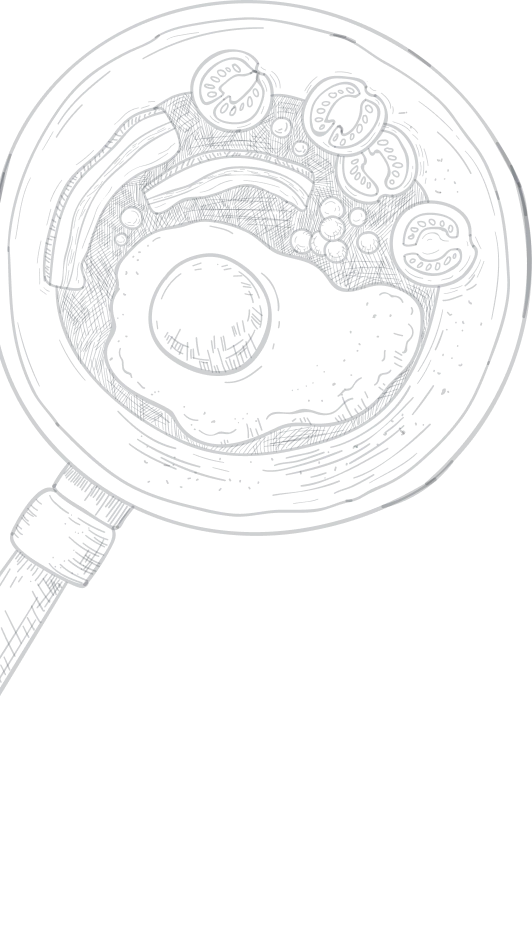
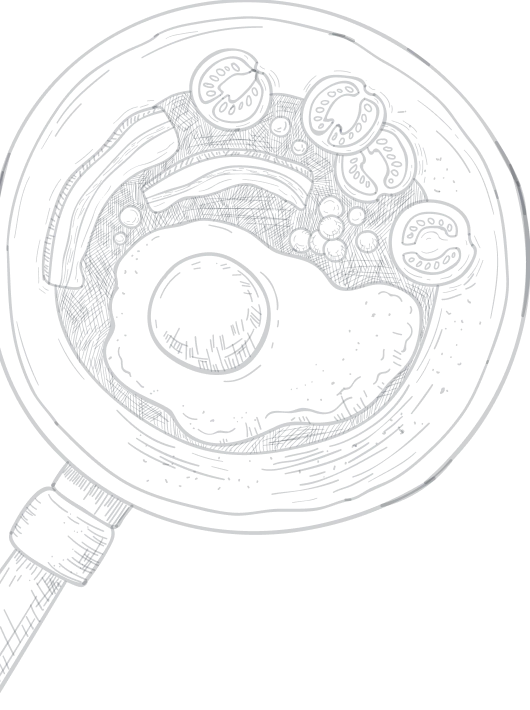
reviews

Changed region(s): [[0.0, 0.0, 1.0, 0.9915]]

diff --git a/index.html b/index.html
@@ -16,6 +16,17 @@
       crossorigin="anonymous"
       referrerpolicy="no-referrer"
     >
+    <link
+      rel="stylesheet"
+      href="https://cdnjs.cloudflare.com/ajax/libs/font-awesome/5.15.4/css/all.min.css"
+      integrity="sha512-1ycn6IcaQQ40/MKBW2W4Rhis/DbILU74C1vSrLJxCq57o941Ym01SwNsOMqvEBFlcgUa6xLiPY/NS5R+E6ztJQ=="
+      crossorigin="anonymous"
+      referrerpolicy="no-referrer"
+    >
+    <link
+      rel="stylesheet"
+      href="https://cdn.jsdelivr.net/npm/swiper@11/swiper-bundle.min.css"
+    >
     <link rel="stylesheet" href="./css/main.css">
     <title>Restaurant</title>
   </head>
@@ -495,13 +506,179 @@
         >
       </section>
       <!-- #endregion -->
+      <!-- #region Reviews-->
+      <section id="reviews" class="reviews">
+        <div class="container">
+          <h2 class="reviews__title">Our Happy Customers</h2>
+          <p class="reviews__description">
+            Lorem ipsum dolor sit amet, consectetur adipiscing elit, sed do
+            eiusmod tempor incididunt
+          </p>
+          <div class="reviews__slider swiper">
+            <ul class="reviews__list swiper-wrapper">
+              <li class="reviews__item swiper-slide">
+                <img
+                  width="109"
+                  height="109"
+                  src="./images/person-1.webp"
+                  alt="Ama Ampomah"
+                  class="reviews__user-photo"
+                >
+                <div class="reviews__rating">
+                  <span class="visually-hidden">Rating 5 out of 5</span>
+                  <i class="fas fa-star"></i>
+                  <i class="fas fa-star"></i>
+                  <i class="fas fa-star"></i>
+                  <i class="fas fa-star"></i>
+                  <i class="fas fa-star"></i>
+                </div>
+                <p class="reviews__review-text">
+                  Lorem ipsum dolor sit amet consectetur. Tortor massa nisl quam
+                  sit. Vitae congue ultrices neque penatibus mi in quisque. Leo
+                  in cursus enim magnis ante. Proin iaculis platea ipsum
+                  sagittis ac eu aliquam quis. Ornare tincidunt tempus semper
+                </p>
+                <h3 class="reviews__user-name">Ama Ampomah</h3>
+                <p class="reviews__position">CEO & Founder Inc</p>
+              </li>
+              <li class="reviews__item swiper-slide">
+                <img
+                  width="109"
+                  height="109"
+                  src="./images/person-2.webp"
+                  alt="Kweku Annan"
+                  class="reviews__user-photo"
+                >
+                <div class="reviews__rating">
+                  <span class="visually-hidden">Rating 5 out of 5</span>
+                  <i class="fas fa-star"></i>
+                  <i class="fas fa-star"></i>
+                  <i class="fas fa-star"></i>
+                  <i class="fas fa-star"></i>
+                  <i class="fas fa-star"></i>
+                </div>
+                <p class="reviews__review-text">
+                  Lorem ipsum dolor sit amet consectetur. Tortor massa nisl quam
+                  sit. Vitae congue ultrices neque penatibus mi in quisque. Leo
+                  in cursus enim magnis ante. Proin iaculis platea ipsum
+                  sagittis ac eu aliquam quis. Ornare tincidunt tempus semper
+                </p>
+                <h3 class="reviews__user-name">Kweku Annan</h3>
+                <p class="reviews__position">CEO & Founder Inc</p>
+              </li>
+              <li class="reviews__item swiper-slide">
+                <img
+                  width="109"
+                  height="109"
+                  src="./images/person-1.webp"
+                  alt="Ama Ampomah"
+                  class="reviews__user-photo"
+                >
+                <div class="reviews__rating">
+                  <span class="visually-hidden">Rating 5 out of 5</span>
+                  <i class="fas fa-star"></i>
+                  <i class="fas fa-star"></i>
+                  <i class="fas fa-star"></i>
+                  <i class="fas fa-star"></i>
+                  <i class="fas fa-star"></i>
+                </div>
+                <p class="reviews__review-text">
+                  Lorem ipsum dolor sit amet consectetur. Tortor massa nisl quam
+                  sit. Vitae congue ultrices neque penatibus mi in quisque. Leo
+                  in cursus enim magnis ante. Proin iaculis platea ipsum
+                  sagittis ac eu aliquam quis. Ornare tincidunt tempus semper
+                </p>
+                <h3 class="reviews__user-name">Ama Ampomah</h3>
+                <p class="reviews__position">CEO & Founder Inc</p>
+              </li>
+              <li class="reviews__item swiper-slide">
+                <img
+                  width="109"
+                  height="109"
+                  src="./images/person-2.webp"
+                  alt="Kweku Annan"
+                  class="reviews__user-photo"
+                >
+                <div class="reviews__rating">
+                  <span class="visually-hidden">Rating 5 out of 5</span>
+                  <i class="fas fa-star"></i>
+                  <i class="fas fa-star"></i>
+                  <i class="fas fa-star"></i>
+                  <i class="fas fa-star"></i>
+                  <i class="fas fa-star"></i>
+                </div>
+                <p class="reviews__review-text">
+                  Lorem ipsum dolor sit amet consectetur. Tortor massa nisl quam
+                  sit. Vitae congue ultrices neque penatibus mi in quisque. Leo
+                  in cursus enim magnis ante. Proin iaculis platea ipsum
+                  sagittis ac eu aliquam quis. Ornare tincidunt tempus semper
+                </p>
+                <h3 class="reviews__user-name">Kweku Annan</h3>
+                <p class="reviews__position">CEO & Founder Inc</p>
+              </li>
+              <li class="reviews__item swiper-slide">
+                <img
+                  width="109"
+                  height="109"
+                  src="./images/person-2.webp"
+                  alt="Kweku Annan"
+                  class="reviews__user-photo"
+                >
+                <div class="reviews__rating">
+                  <span class="visually-hidden">Rating 5 out of 5</span>
+                  <i class="fas fa-star"></i>
+                  <i class="fas fa-star"></i>
+                  <i class="fas fa-star"></i>
+                  <i class="fas fa-star"></i>
+                  <i class="fas fa-star"></i>
+                </div>
+                <p class="reviews__review-text">
+                  Lorem ipsum dolor sit amet consectetur. Tortor massa nisl quam
+                  sit. Vitae congue ultrices neque penatibus mi in quisque. Leo
+                  in cursus enim magnis ante. Proin iaculis platea ipsum
+                  sagittis ac eu aliquam quis. Ornare tincidunt tempus semper
+                </p>
+                <h3 class="reviews__user-name">Kweku Annan</h3>
+                <p class="reviews__position">CEO & Founder Inc</p>
+              </li>
+            </ul>
+          </div>
+          <div class="reviews__list-dots swiper-pagination"></div>
+          <img
+            class="reviews__decor"
+            src="./images/pan.webp"
+            alt="branch"
+            width="530"
+            height="710"
+            aria-hidden="true"
+          >
+        </div>
+      </section>
+      <!-- #endregion -->
     </main>
     <!-- #endregion -->
 
     <!-- #region Footer-->
+
     <footer class="footer">
       <div class="container"></div>
     </footer>
     <!-- #endregion -->
+
+    <script src="https://cdn.jsdelivr.net/npm/swiper@11/swiper-bundle.min.js"></script>
+
+    <script>
+      const swiper = new Swiper('.reviews__slider', {
+        slidesPerView: 1,
+        spaceBetween: 30,
+        loop: true,
+        centeredSlides: true,
+
+        pagination: {
+          el: '.reviews__list-dots',
+          clickable: true,
+        },
+      });
+    </script>
   </body>
 </html>

diff --git a/css/reviews.css b/css/reviews.css
@@ -1,0 +1,99 @@
+.reviews {
+  max-width: 1512px;
+  margin: 0 auto;
+  position: relative;
+  overflow: hidden;
+  background-color: #f3f4f4;
+}
+
+.reviews .container {
+  padding-block: 114px;
+  flex-direction: column;
+  position: relative;
+}
+
+.reviews__title {
+  font-family: var(--second-family);
+  font-weight: 700;
+  font-size: 60px;
+  line-height: 1.08;
+  color: #101a24;
+}
+
+.reviews__description {
+  color: #5c6574;
+  margin-top: 18px;
+  max-width: 376px;
+  text-align: center;
+}
+
+.reviews__slider {
+  max-width: 639px;
+}
+
+.reviews__list {
+  margin-top: 123px;
+}
+
+.reviews__item {
+  display: flex;
+  flex-direction: column;
+  padding: 60px 130px 40px 130px;
+  border-radius: 95px 45px;
+  background-color: #fff;
+  max-width: 100%;
+  position: relative;
+}
+
+.reviews__user-photo {
+  position: absolute;
+  left: calc(100% / 2);
+  top: -54px;
+  transform: translateX(-50%);
+  border-radius: 100%;
+}
+
+.reviews__rating {
+  display: flex;
+  justify-content: center;
+  align-items: center;
+  gap: 12px;
+  font-weight: 900;
+  font-size: 16px;
+  line-height: 4.0625;
+  color: #fb0;
+}
+
+.reviews__review-text {
+  color: #5c6574;
+  text-align: center;
+  margin-top: 38px;
+}
+
+.reviews__user-name {
+  font-size: 16px;
+  text-align: center;
+  color: #101a24;
+  margin-top: 26px;
+}
+
+.reviews__position {
+  font-size: 15px;
+  line-height: 1.93;
+  text-align: center;
+  color: #5c6574;
+}
+
+.reviews__list-dots {
+  margin-top: 117px;
+  --swiper-pagination-color: #ea6d27;
+  --swiper-pagination-bullet-inactive-color: #101a24;
+  --swiper-pagination-bullet-size: 7px;
+  --swiper-pagination-bullet-horizontal-gap: 20px;
+}
+
+.reviews__decor {
+  position: absolute;
+  top: 90px;
+  left: -185px;
+}

diff --git a/css/expectation.css b/css/expectation.css
@@ -2,6 +2,7 @@
   max-width: 1512px;
   margin: 0 auto;
   position: relative;
+  overflow: hidden;
 }
 
 .expectation .container {

diff --git a/css/main.css b/css/main.css
@@ -5,3 +5,4 @@
 @import url('./specials.css');
 @import url('./welcome.css');
 @import url('./expectation.css');
+@import url('./reviews.css');